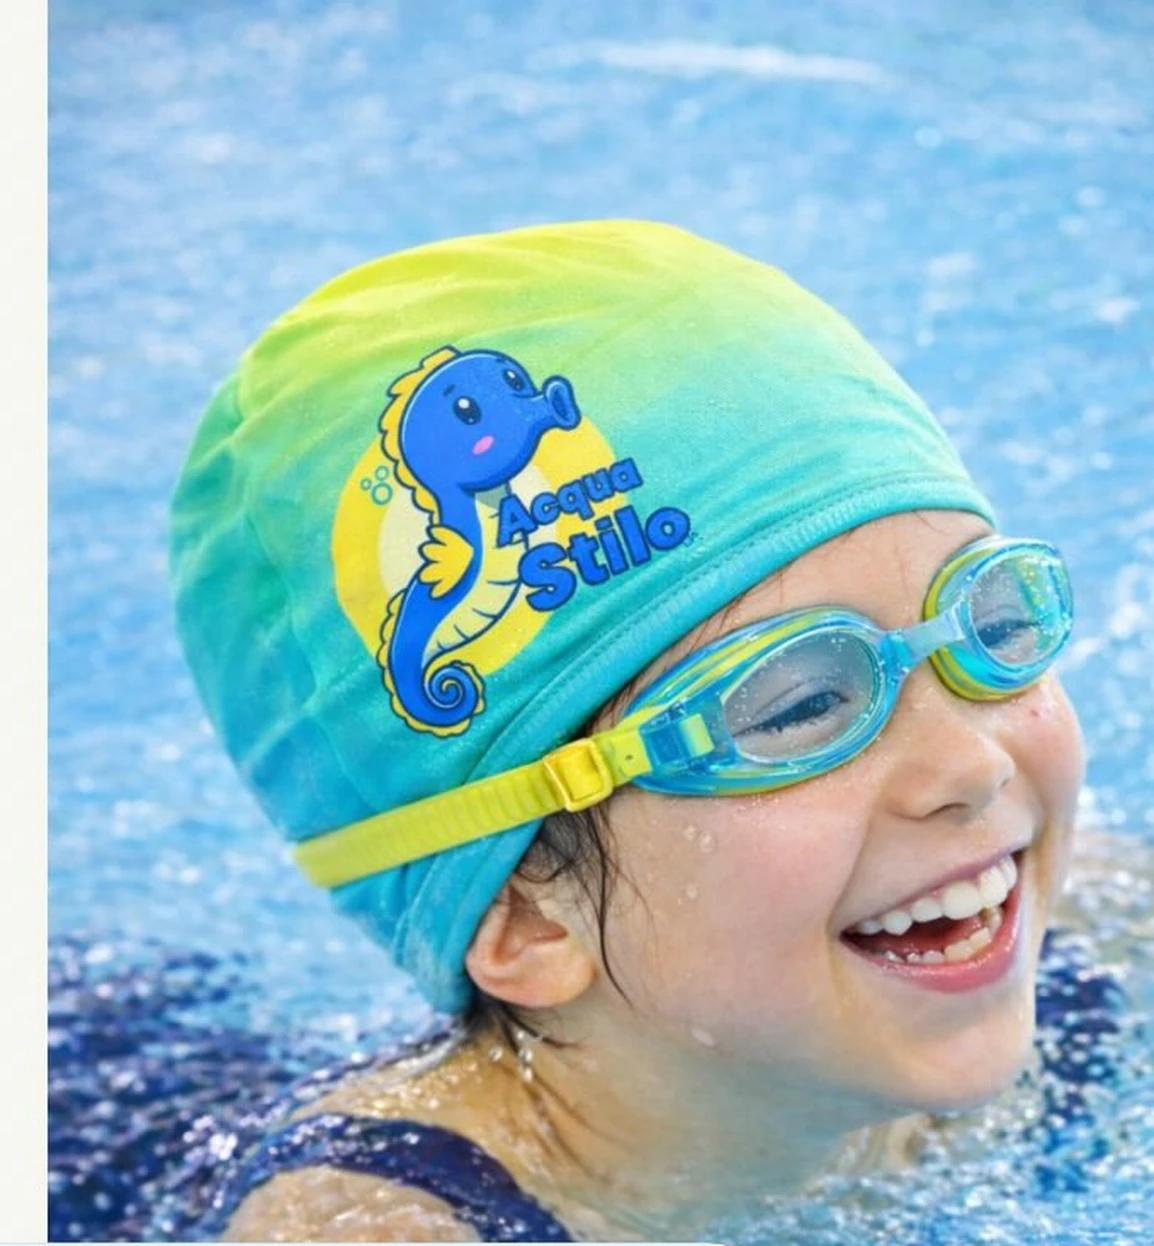
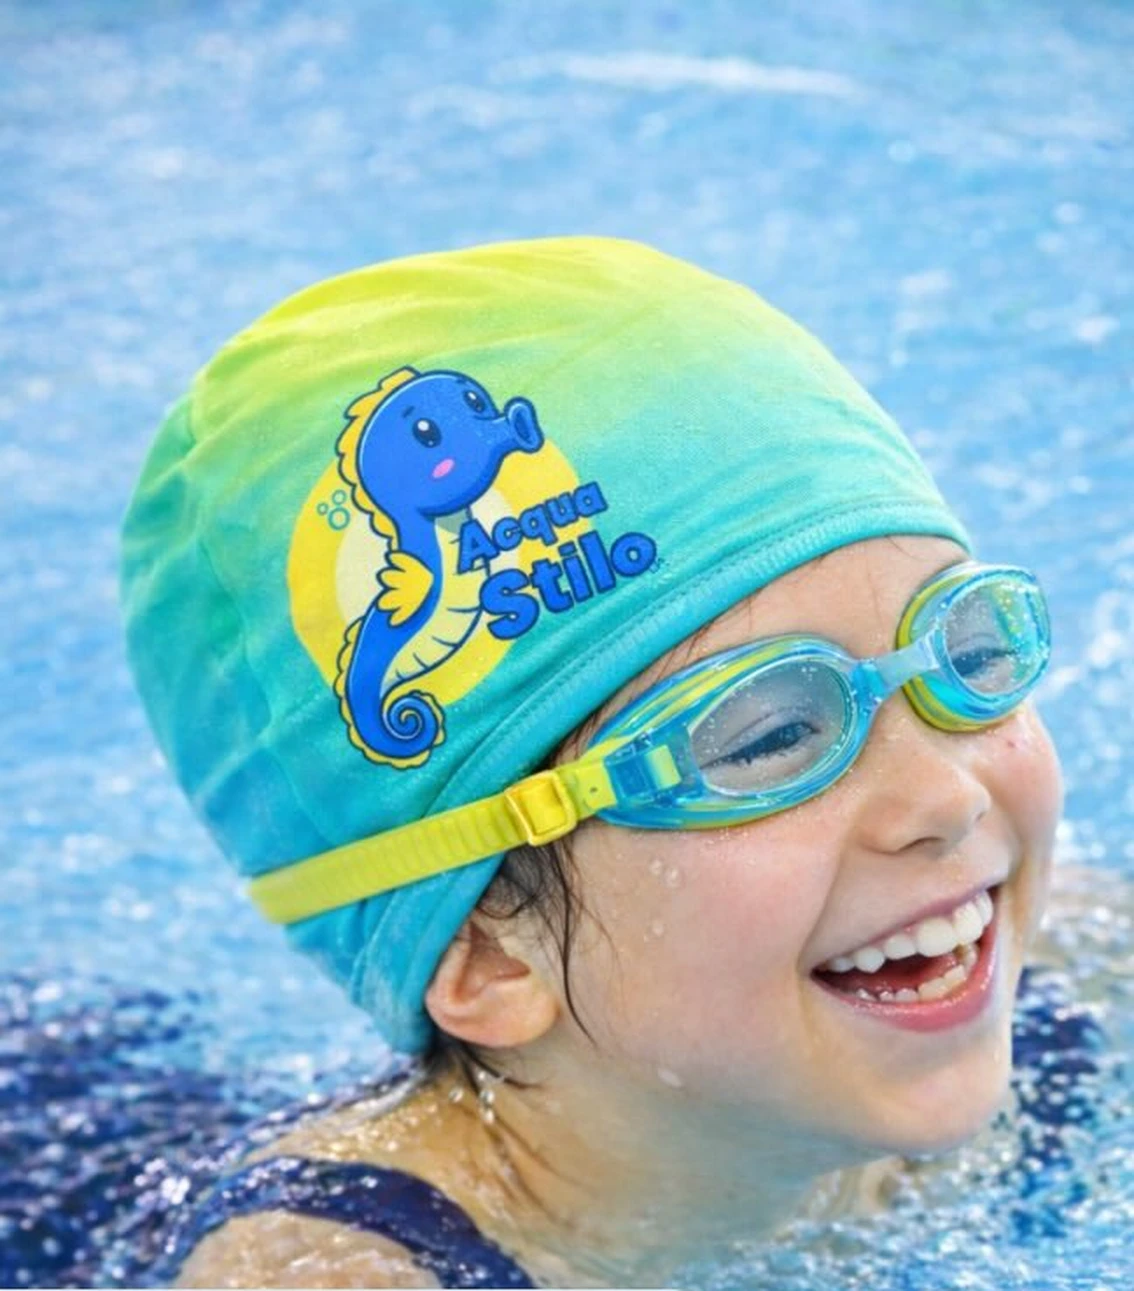
Hero: remove faixa branca da foto e adiciona moldura dourada
Detecta a area util da foto por analise de pixel, em vez de corte no olho.
Moldura em degrade amarelo com a cor da marca, dando acabamento.

Claude-Session: https://claude.ai/code/session_01CtvgDJDeKnovJZzxfT8yoL

diff --git a/index.html b/index.html
@@ -95,8 +95,9 @@ h1,h2,h3{font-family:"Baloo 2",system-ui,sans-serif;line-height:1.05;text-wrap:b
 .hero h1{font-size:clamp(2.6rem,6.4vw,4.6rem);letter-spacing:-.035em;margin:18px 0}
 .hero h1 span{display:block;color:var(--amarelo)}
 .hero p.sub{font-size:1.14rem;color:#e6f6fd;max-width:56ch}
-.hero-foto{position:relative;border-radius:var(--rg);overflow:hidden;box-shadow:0 26px 60px rgba(3,49,79,.4);aspect-ratio:4/4.2}
-.hero-foto img{width:100%;height:100%;object-fit:cover}
+.hero-foto{position:relative;border-radius:var(--rg);aspect-ratio:4/4.35;padding:7px;background:linear-gradient(150deg,var(--amarelo),var(--amarelo-esc) 55%,#e2a600);box-shadow:0 26px 60px rgba(3,49,79,.45)}
+.hero-foto::after{content:"";position:absolute;inset:0;border-radius:var(--rg);box-shadow:inset 0 0 0 1px rgba(255,255,255,.28);pointer-events:none}
+.hero-foto img{width:100%;height:100%;object-fit:cover;border-radius:calc(var(--rg) - 7px);display:block}
 .nota{display:flex;flex-wrap:wrap;gap:20px;margin-top:var(--s4);padding-top:var(--s3);border-top:1px solid rgba(255,255,255,.24)}
 .nota div{font-weight:900;font-size:.95rem;color:#fff}
 .nota small{display:block;font-weight:700;color:#e6f6fe;font-size:.875rem;text-transform:uppercase;letter-spacing:.05em}
@@ -438,7 +439,7 @@ h1,h2,h3{font-family:"Baloo 2",system-ui,sans-serif;line-height:1.05;text-wrap:b
       </div>
     </div>
     <div class="hero-foto">
-      <img src="img/hero.webp" alt="Criança sorrindo na piscina usando touca da Acqua Stilo" width="1154" height="1246" fetchpriority="high">
+      <img src="img/hero.webp" alt="Criança sorrindo na piscina usando touca da Acqua Stilo" width="1134" height="1291" fetchpriority="high">
     </div>
   </div>
 </section>
